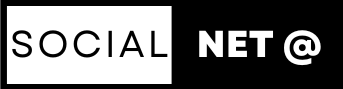
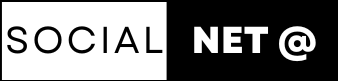
msg sent success

Changed region(s): [[0.0, 0.0247, 0.503, 0.9877], [0.5621, 0.321, 0.7988, 0.6667], [0.8284, 0.321, 0.9467, 0.7654]]

diff --git a/src/app/home/pages/messages/chatterbox.tsx b/src/app/home/pages/messages/chatterbox.tsx
@@ -9,9 +9,10 @@ import StringAvatar from "../../../shared/components/stringAvatar.tsx";
 import InfoOutlinedIcon from '@mui/icons-material/InfoOutlined';
 import Divider from "@mui/material/Divider";
 import Typography from "@mui/material/Typography";
-import ArrowForwardIosSharpIcon from '@mui/icons-material/ArrowForwardIosSharp';
 import Box from "@mui/material/Box";
 import Button from "@mui/material/Button";
+import {ThemeContext} from "../../../core/providers/themeProvider.tsx";
+import {containsEmoji} from "../../../shared/functions.ts";
 
 export function Chatterbox() {
     const {recipientId} = useParams();
@@ -28,22 +29,34 @@ export function Chatterbox() {
                 toggleLoading(false);
             })
         userService.getUserMessages(+recipientId!).then((response) => {
-            const messages = [...response.inbox, ...response.outbox];
+            const messages: UserMessage[] = [...response.inbox, ...response.outbox];
             messages.sort((a, b) => new Date(a.createdAt).getTime() - new Date(b.createdAt).getTime());
             setUserMessages(messages);
         })
     }, [recipientId]);
 
-    function handleSubmit() {
+    function handleSubmit(event: { preventDefault: () => void; }) {
+        event.preventDefault();
+        if (!text.trim()) return;
         const payload: CreateUserMessageDto = {text: text, receiverId: +recipientId!};
         userService.sendMessage(payload).then((response) => {
-            console.log(response)
+            setUserMessages([...userMessages, response]);
+            setText('');
         })
     }
 
     return (
         recipient && <>
-            <Card sx={{height: '100%', width: '800px'}}>
+            <Card
+                variant='outlined'
+                sx={{
+                    height: '100%',
+                    width: '800px',
+                    display: 'flex',
+                    flexDirection: 'column',
+                    justifyContent: 'space-around'
+                }}
+            >
                 <CardHeader
                     avatar={
                         <StringAvatar name={`${recipient.firstName.trim()} ${recipient.lastName.trim()}`} size={40}/>
@@ -86,36 +99,25 @@ export function Chatterbox() {
                     </Box>
                     <Box>
                         {
-                            userMessages && userMessages.map((userMessage) => (
+                            userMessages && userMessages.map((userMessage, index) => (
                                 <Box
                                     sx={{
                                         mb: '3px',
                                         display: 'flex',
                                         justifyContent: userMessage.receiverId !== recipient.id ? 'start' : 'end'
                                     }}
-                                    key={userMessage.id}
+                                    key={index}
                                 >
-
-                                    <Box sx={{
-                                        backgroundColor: userMessage.receiverId !== recipient.id ? 'black' : '#3797f0',
-                                        padding: '5px 10px',
-                                        borderRadius: '40px'
-                                    }}>
-                                        {userMessage.message.text}
-                                    </Box>
-
+                                    <TextMessageContainer userMessage={userMessage} recipientId={recipient.id}/>
                                 </Box>
                             ))
                         }
                     </Box>
                 </CardContent>
-                <CardActions sx={{height: '10%'}}>
-                    <TextField variant='outlined' size='medium' sx={{width: '100%'}}
-                               InputProps={{
-                                   endAdornment: <ArrowForwardIosSharpIcon onClick={handleSubmit}/>,
-                               }}
-                               onChange={(event) => setText(event.target.value)}
-                    />
+                <CardActions>
+                    <form onSubmit={handleSubmit} style={{width: '100%'}}>
+                        <TextField sx={{width: 'inherit'}} value={text} onChange={(e) => setText(e.target.value)}/>
+                    </form>
                 </CardActions>
             </Card>
         </>
@@ -125,4 +127,35 @@ export function Chatterbox() {
 export interface CreateUserMessageDto {
     receiverId: number;
     text: string;
+}
+
+
+function TextMessageContainer({userMessage, recipientId}: { userMessage: UserMessage, recipientId: number }) {
+    const {theme} = useContext(ThemeContext);
+    const isDarkMode = theme.palette.mode === 'dark';
+    const isReceiver = userMessage.receiverId !== recipientId;
+    const isEmoji = !containsEmoji(userMessage.message.text);
+    const backgroundColor = isEmoji
+        ? isDarkMode
+            ? (isReceiver ? 'black' : '#3797f0')
+            : (isReceiver ? '#efefef' : '#3797f0')
+        : 'transparent';
+
+    const color = isDarkMode
+        ? (isReceiver ? 'white' : 'black')
+        : (isReceiver ? 'black' : 'white');
+
+    return (
+        <>
+            <Box style={{
+                backgroundColor: backgroundColor,
+                color: color,
+                padding: !isEmoji ? '0' : isReceiver ? '5px 15px 5px 10px' : '5px 10px 5px 15px',
+                borderRadius: !isEmoji ? '0' : isReceiver ? '4px 18px 18px 4px' : '18px 4px 4px 18px',
+                fontSize: !isEmoji ? '50px' : 'inherit'
+            }}>
+                {userMessage.message.text}
+            </Box>
+        </>
+    )
 }

diff --git a/src/app/home/pages/messages/components/recipientSelectionDialog.tsx b/src/app/home/pages/messages/components/recipientSelectionDialog.tsx
@@ -6,7 +6,7 @@ import CloseIcon from '@mui/icons-material/Close';
 import IconButton from "@mui/material/IconButton";
 import Divider from "@mui/material/Divider";
 import Button from "@mui/material/Button";
-import userService from "../../../../core/services/user.service.ts";
+import userService, {getSignedInUser} from "../../../../core/services/user.service.ts";
 import Box from "@mui/material/Box";
 import {User} from "../../../../core/interfaces/user.ts";
 import StringAvatar from "../../../../shared/components/stringAvatar.tsx";
@@ -19,15 +19,16 @@ interface ContentProps {
 
 export function RecipientSelectionDialog(props: ContentProps) {
     const {onClose, open} = props;
+    const currentSignedInUser = getSignedInUser();
     const [isLoading, setIsLoading] = useState(false);
-    const [users, setUsers] = useState<User[]>([]);
+    const [recipients, setRecipients] = useState<User[]>([]);
     const [searchText, setSearchText] = useState('');
-    const [selectedUser, setSelectedUser] = useState<User | null>(null);
+    const [selectedRecipient, setSelectedRecipient] = useState<User | null>(null);
 
     function handleClose() {
         onClose();
-        setUsers([]);
-        setSelectedUser(null);
+        setRecipients([]);
+        setSelectedRecipient(null);
     }
 
     const handleChange = (event: React.ChangeEvent<HTMLInputElement>) => {
@@ -38,17 +39,17 @@ export function RecipientSelectionDialog(props: ContentProps) {
     useDebounce(() => {
         if (!searchText || searchText === '') {
             setIsLoading(false);
-            setUsers([]);
+            setRecipients([]);
             return
         }
-        userService.filter({searchText}).then((response) => {
-            setUsers(response);
+        userService.filter({searchText: searchText.trim()}).then((response) => {
+            setRecipients(response.filter(res => res.id !== currentSignedInUser.id));
             setIsLoading(false);
         });
-    }, 3000, [searchText]);
+    }, 500, [searchText]);
 
     function handleSubmit() {
-        onClose(selectedUser!);
+        onClose(selectedRecipient!);
         handleClose();
     }
 
@@ -77,7 +78,7 @@ export function RecipientSelectionDialog(props: ContentProps) {
                                }}
                     />
                     <Box sx={{margin: '10px 0'}}>
-                        {users.map((user) => (
+                        {recipients.map((user) => (
                             <Box key={user.id}
                                  sx={{display: 'flex', alignItems: 'center', justifyContent: 'space-between', mt: 2}}>
                                 <Box sx={{display: 'flex', alignItems: 'center'}}>
@@ -90,13 +91,15 @@ export function RecipientSelectionDialog(props: ContentProps) {
                                         <Box sx={{lineHeight: '0.8', fontSize: '12px',}}>{user.email}</Box>
                                     </Box>
                                 </Box>
-                                <Checkbox onClick={() => setSelectedUser(user)}/>
+                                <Checkbox checked={selectedRecipient?.id === user.id}
+                                          onClick={() => setSelectedRecipient(user)}/>
                             </Box>
                         ))}
                     </Box>
                 </DialogContent>
                 <DialogActions sx={{padding: '0 24px 10px 24px'}}>
-                    <Button fullWidth variant='contained' color='secondary' onClick={handleSubmit}>Chat</Button>
+                    <Button fullWidth variant='contained' color='secondary' onClick={handleSubmit}
+                            disabled={!selectedRecipient}>Chat</Button>
                 </DialogActions>
             </Dialog>
         </>

diff --git a/src/app/home/layout/components/appbar.tsx b/src/app/home/layout/components/appbar.tsx
@@ -1,7 +1,5 @@
 import * as React from 'react';
 import {useContext} from 'react';
-import darkLogo from '../../../../assets/social_net_dark.png';
-import lightLogo from '../../../../assets/social_net_light.png';
 import {styled, ThemeProvider} from '@mui/material/styles';
 import CssBaseline from '@mui/material/CssBaseline';
 import MuiDrawer from '@mui/material/Drawer';
@@ -26,6 +24,7 @@ import StringAvatar from "../../../shared/components/stringAvatar.tsx";
 import {getSignedInUser} from "../../../core/services/user.service.ts";
 import {navigationService} from "../../../core/services/navigation.service.ts";
 import ChatIcon from '@mui/icons-material/Chat';
+import Typography from "@mui/material/Typography";
 
 const drawerWidth: number = 240;
 
@@ -80,7 +79,6 @@ const Drawer = styled(MuiDrawer, {shouldForwardProp: (prop) => prop !== 'open'})
 export default function Appbar() {
     const user = getSignedInUser();
     const {theme, toggleTheme} = useContext(ThemeContext);
-    const logo = theme.palette.mode === 'dark' ? darkLogo : lightLogo;
     const {navigateToHome, navigateToUserProfile} = navigationService();
     const navigator = useNavigate();
     const {isLoading} = useContext(LoaderContext);
@@ -121,7 +119,12 @@ export default function Appbar() {
                             alignItems: 'center',
                             justifyContent: 'space-between'
                         }}>
-                            <img src={logo} alt="logo" height="50px" onClick={navigateToHome}/>
+                            <Typography
+                                onClick={navigateToHome}
+                                sx={{cursor: 'pointer'}}
+                                variant="h6"
+                                fontFamily='cursive'
+                            >Social NET@</Typography>
                             <IconButton onClick={() => {
                                 navigateToUserProfile(user.id)
                             }}>

diff --git a/src/app/shared/components/stringAvatar.tsx b/src/app/shared/components/stringAvatar.tsx
@@ -1,6 +1,6 @@
 import Avatar from '@mui/material/Avatar';
 
-function stringToColor(string: string) {
+function stringToBackgroundColor(string: string) {
     let hash = 0;
     let i;
 
@@ -18,10 +18,33 @@ function stringToColor(string: string) {
     return color;
 }
 
+function getLuminance(color: string) {
+    const r = parseInt(color.slice(1, 3), 16) / 255;
+    const g = parseInt(color.slice(3, 5), 16) / 255;
+    const b = parseInt(color.slice(5, 7), 16) / 255;
+
+    const a = [r, g, b].map((v) => {
+        return v <= 0.03928 ? v / 12.92 : Math.pow((v + 0.055) / 1.055, 2.4);
+    });
+
+    return 0.2126 * a[0] + 0.7152 * a[1] + 0.0722 * a[2];
+}
+
+function getTextColor(backgroundColor: string) {
+    const luminance = getLuminance(backgroundColor);
+    return luminance > 0.5 ? '#000000' : '#FFFFFF';
+}
+
 export default function StringAvatar({name, size}: { name: string, size: number }) {
     name = name.toUpperCase();
     return (
-        <Avatar sx={{height: `${size}px`, width: `${size}px`, fontSize: `${size / 2}px` , background: stringToColor(name)}}>
+        <Avatar sx={{
+            height: `${size}px`,
+            width: `${size}px`,
+            fontSize: `${size / 2.5}px`,
+            background: stringToBackgroundColor(name),
+            color: getTextColor(stringToBackgroundColor(name))
+        }}>
             {`${name.split(' ')[0][0]}${name.split(' ')[1][0]}`}
         </Avatar>
     );

diff --git a/src/app/core/services/user.service.ts b/src/app/core/services/user.service.ts
@@ -6,7 +6,7 @@ import {CreateUserMessageDto} from "../../home/pages/messages/chatterbox.tsx";
 
 interface UserService {
     getUsers: () => Promise<User[]>;
-    getUserMessages: (id: number) => Promise<User>;
+    getUserMessages: (id: number) => Promise<{ inbox: [], outbox: [] }>;
     addUser: (user: Partial<User>) => Promise<User>;
     filter: (searchText: UsersFilterDto) => Promise<User[]>;
     getUserById: (id: number) => Promise<User>;
@@ -32,7 +32,7 @@ export const getUsers = async (): Promise<User[]> => {
     return await response.json();
 }
 
-export const getUserMessages = async (recipientId: number): Promise<User> => {
+export const getUserMessages = async (recipientId: number): Promise<{ inbox: [], outbox: [] }> => {
     const request = createRequest(`/users/${recipientId}/get-messages`, 'GET');
     const response = await request;
     if (!response.ok) {

diff --git a/src/app/authentication/layout/authentication.tsx b/src/app/authentication/layout/authentication.tsx
@@ -1,5 +1,4 @@
-import darkLogo from '../../../assets/social_net_dark.png';
-import lightLogo from '../../../assets/social_net_light.png';
+import logo from '../../../assets/social_net_dark.png';
 import Typography from "@mui/material/Typography";
 import {Outlet} from "react-router-dom";
 import {useContext} from "react";
@@ -9,7 +8,6 @@ import Box from "@mui/material/Box";
 
 export function Authentication() {
     const {theme} = useContext(ThemeContext);
-    const logo = theme.palette.mode === 'dark' ? darkLogo : lightLogo;
     return (
         <>
             <ThemeProvider theme={theme}>

diff --git a/src/app/shared/functions.ts b/src/app/shared/functions.ts
@@ -3,3 +3,8 @@ import moment from "moment/moment";
 export function shortDate(value: Date): string {
     return moment(value).format('h:mm a, M/d/yy');
 }
+
+export function containsEmoji(text: string): boolean {
+    const emojiPattern = /^(?!\d+$)(\p{Emoji_Presentation}|\p{Emoji}[\uFE0F\u200D]?)+$/u;
+    return emojiPattern.test(text);
+}
